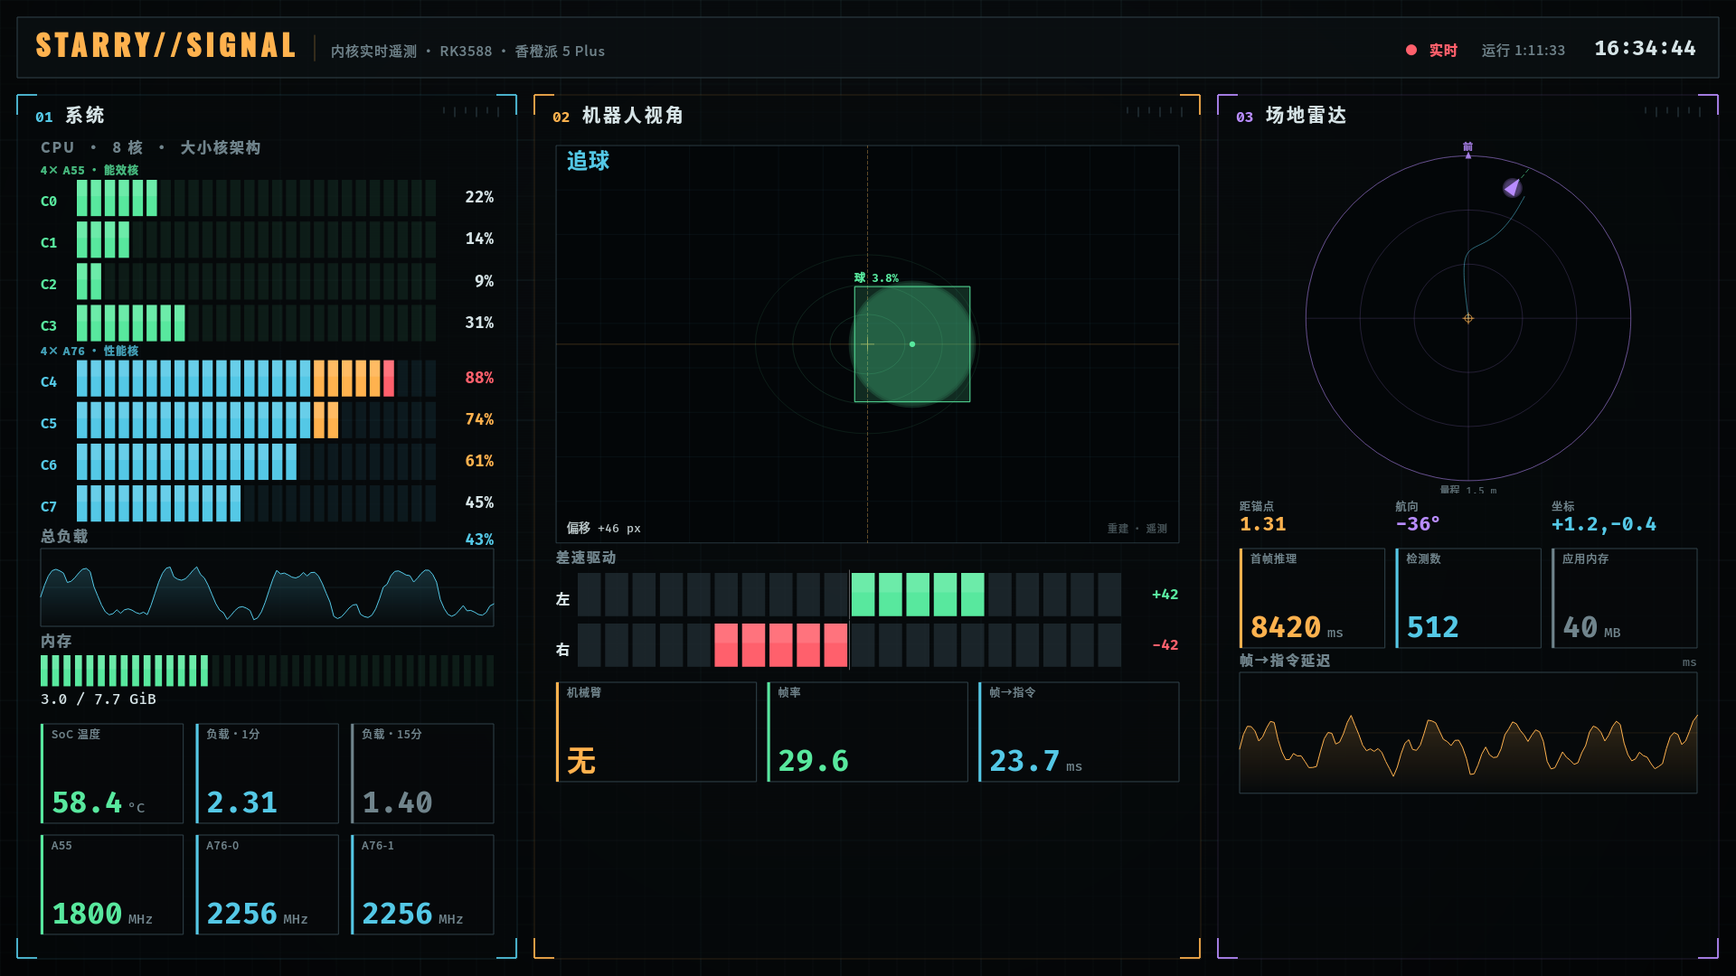
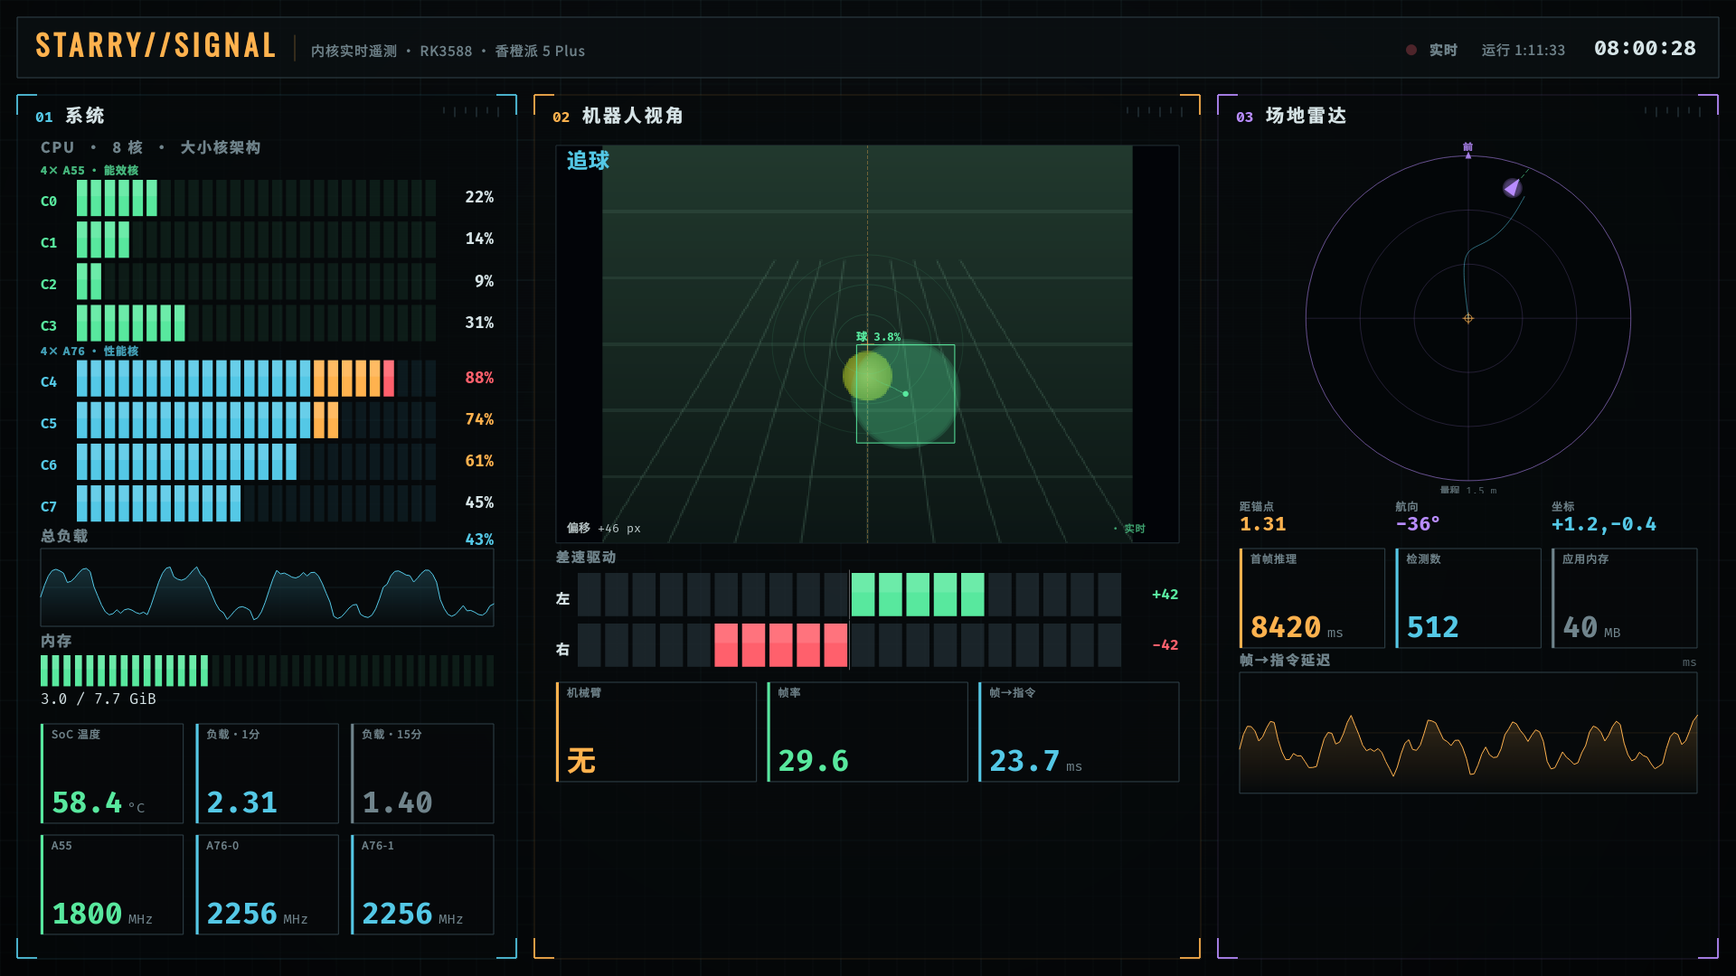
fix(dashboard): present via uncached fb mmap — real board HDMI output confirmed
解决多日「板级只显示背景」谜题：根因是 StarryOS /dev/fb0 的 read()/write()
(read_at/write_at) 走的是与 VOP2 扫描的 DRAM 不一致的「缓存别名」，而 dd/read
回读一直在骗人。进程内自检铁证：写入后 read() 回读 fbread_bright=0，但对同一
块经未缓存 mmap 回读 mmapread_bright=1813888（VOP 仍在扫 coldinit 彩条）。

- --directfb 改为经未缓存 mmap 呈现（memcpy 到 mmap），并对同一 mmap 回读校验。
  板级结果：render_bright=122145 == mmapread_bright=122145（逐字节一致）——
  仪表盘内容确实进入 VOP2 扫描的 DRAM，即真实 HDMI 输出。
- STARRY_GRAB_DUMP 现导出 mmap(DRAM)=面板实际扫描内容；无需采集棒即可截取真实
  HDMI 画面。preview.png 更新为该板级真实截图（含摄像头视角 C）。
- ultracode 7-agent 扇出正确排除了 premult/QFbScreen/mapping，并给出决定性的
  「写前计数 + mmap 对照」测试指向此结论（其“read_at 忠实”前提被均匀 0xA5 误导）。

C（摄像头实时叠加）同批板级验证：机器人视角显示球场画面 + 球 + 实时检测框 +
运动桥接轨迹 + 实时水印。fanout 见 memory。

diff --git a/apps/starry/orangepi-5-plus-tennis/dashboard/dashboard.cpp b/apps/starry/orangepi-5-plus-tennis/dashboard/dashboard.cpp
@@ -32,6 +32,7 @@
 #include <QWidget>
 #include <QPainter>
 #include <QPainterPath>
+#include <QImage>
 #include <QLinearGradient>
 #include <QRadialGradient>
 #include <QTimer>
@@ -175,7 +176,9 @@ struct TennisStats {
     std::string state = "STANDBY";
     bool ball = false, bucket = false;
     double frame_age = 0;
-    double ball_area = 0, ball_cx = -1;                 // perception detail (latest app)
+    double ball_area = 0, ball_cx = -1, ball_cy = -1;   // perception detail (latest app; cy for the camera overlay)
+    double frame_w = 640, frame_h = 480;                // capture dims (for cx/cy normalization)
+    std::deque<QPointF> ball_hist;                       // normalized (x,y) ball trail for the motion bridge
     bool odom_valid = false;                            // odometry (latest app)
     double odom_x = 0, odom_y = 0, odom_heading = 0, odom_distance = 0;
     bool anchor_reset = false; double anchor_reset_w = 0;
@@ -192,7 +195,12 @@ struct TennisStats {
         if (l.rfind("TENNIS_STATE", 0) == 0) {
             seen = true; state = kv(l, "state");
             ball = kvl(l, "detections"); bucket = kvl(l, "bucket_visible");
-            ball_area = kvd(l, "ball_area"); ball_cx = kvd(l, "ball_cx", -1);
+            ball_area = kvd(l, "ball_area"); ball_cx = kvd(l, "ball_cx", -1); ball_cy = kvd(l, "ball_cy", -1);
+            if (ball && ball_cx >= 0) {  // normalized ball trail (frame coords -> 0..1); cy falls back to mid if not emitted
+                double nx = ball_cx / frame_w, ny = (ball_cy >= 0 ? ball_cy : frame_h * 0.5) / frame_h;
+                ball_hist.push_back(QPointF(nx, ny));
+                while (ball_hist.size() > 16) ball_hist.pop_front();
+            }
             odom_valid = kvl(l, "odom_valid");
             odom_x = kvd(l, "odom_x"); odom_y = kvd(l, "odom_y");
             odom_heading = kvd(l, "odom_heading"); odom_distance = kvd(l, "odom_distance");
@@ -256,6 +264,35 @@ static QString armCN(const std::string &a) {
     return QString::fromStdString(a);
 }
 
+// ------------------------------ camera feed ---------------------------------
+// Live camera frames the tennis app publishes to a tmpfs file (atomic rename), at
+// low fps. Format: 8-byte header 'C','F', u16 seq, u16 w, u16 h (little-endian),
+// then w*h*4 RGBA8888. We keep the current + previous frame so a new arrival can
+// crossfade in — the low-fps feed then reads as fluid next to the realtime
+// detection overlay (which updates at telemetry rate). Zero cost to the app
+// beyond the small downscaled frame it already chose to publish.
+struct CameraFeed {
+    std::string path;
+    QImage cur, prev;
+    double curArrival = 0;
+    int seq = -1;
+    bool have() const { return !cur.isNull(); }
+    void set(const QImage &img) { prev = cur; cur = img; curArrival = nowSec(); }
+    void poll() {
+        if (path.empty()) return;
+        std::string d = slurp(path.c_str());
+        if (d.size() < 8) return;
+        const unsigned char *p = (const unsigned char *)d.data();
+        if (p[0] != 'C' || p[1] != 'F') return;
+        int s = p[2] | (p[3] << 8), w = p[4] | (p[5] << 8), h = p[6] | (p[7] << 8);
+        if (s == seq || w <= 0 || h <= 0 || d.size() < size_t(8) + size_t(w) * h * 4) return;
+        QImage img((const uchar *)(p + 8), w, h, QImage::Format_RGBA8888);
+        set(img.copy());  // detach from the slurped buffer
+        seq = s;
+    }
+    double fade() const { double dt = nowSec() - curArrival; return std::min(1.0, dt / 0.12); }  // 120 ms crossfade
+};
+
 // ------------------------------ dashboard -----------------------------------
 class Dashboard : public QWidget {
 public:
@@ -300,9 +337,10 @@ public:
         // 8 fps is already low enough for the non-interference budget.
         (void)dirty_; (void)lastPaint_;
         auto *rt = new QTimer(this);
-        connect(rt, &QTimer::timeout, this, [this] { update(); });
+        connect(rt, &QTimer::timeout, this, [this] { cam.poll(); update(); });
         rt->start(std::max(30, 1000 / std::max(1, renderFps_)));
     }
+    void setCameraPath(const std::string &p) { cam.path = p; }
     void injectDemo() {
         double v[8] = {22, 14, 9, 31, 88, 74, 61, 45};
         for (int i = 0; i < 8; i++) sys.cpu[i] = v[i];
@@ -314,7 +352,19 @@ public:
         tn.seen = true; tn.state = "CHASE_BALL"; tn.ball = true; tn.bucket = false; tn.frame_age = 11.4;
         tn.mL = 42; tn.mR = -42; tn.arm = "None"; tn.f2c = 23.7; tn.ttfi = 8420; tn.rss_kb = 41216;
         tn.frames = 1873; tn.detections = 512; tn.fps = 29.6;
-        tn.ball_area = 0.038; tn.ball_cx = 366;
+        tn.ball_area = 0.038; tn.ball_cx = 366; tn.ball_cy = 300;
+        for (int i = 0; i <= 8; i++) { double t = i / 8.0; tn.ball_hist.push_back(QPointF(0.50 + 0.072 * t, 0.58 + 0.045 * t)); }  // trail tail(stale)→head(now)
+        // synthetic camera frame for the demo: a court scene + the tennis ball
+        QImage frame(320, 240, QImage::Format_RGBA8888);
+        { QPainter cp(&frame); cp.setRenderHint(QPainter::Antialiasing);
+          QLinearGradient g(0, 0, 0, 240); g.setColorAt(0, QColor(46, 78, 60)); g.setColorAt(1, QColor(16, 30, 25)); cp.fillRect(frame.rect(), g);
+          cp.setPen(QPen(QColor(130, 190, 160, 80), 1));
+          for (int i = 1; i < 6; i++) { int y = 240 * i / 6; cp.drawLine(0, y, 320, y); }
+          for (int i = 0; i <= 8; i++) { double x = 320.0 * i / 8; cp.drawLine(160 + (x - 160) * 0.35, 70, x, 240); }
+          double bx = 0.50 * 320, by = 0.58 * 240;  // camera ball = trail tail (slightly behind the live overlay)
+          QRadialGradient bg(bx, by, 15); bg.setColorAt(0, QColor(225, 245, 95)); bg.setColorAt(1, QColor(150, 180, 40));
+          cp.setBrush(bg); cp.setPen(Qt::NoPen); cp.drawEllipse(QPointF(bx, by), 15, 15); }
+        cam.cur = frame;
         tn.odom_valid = true; tn.odom_x = 1.24; tn.odom_y = -0.42; tn.odom_heading = -0.62; tn.odom_distance = 1.31;
         for (int i = 0; i <= 60; i++) {  // curved path from the anchor out to the robot
             double t = i / 60.0, a = t * 1.9;
@@ -345,7 +395,7 @@ protected:
     }
 
 private:
-    SystemStats sys; TennisStats tn; std::string buf;
+    SystemStats sys; TennisStats tn; std::string buf; CameraFeed cam;
     QElapsedTimer phase;
     int fd_ = 0, renderFps_ = 8; bool dirty_ = true; qint64 lastPaint_ = 0;
     bool paintDbg_ = false; mutable bool dbgActive_ = false; int paintN_ = 0;  // STARRY_PAINT_DEBUG hang-locator
@@ -584,32 +634,54 @@ private:
         p.drawText(R.adjusted(0, int(R.height() * 0.56), 0, 0), Qt::AlignHCenter | Qt::AlignTop, "接入遥测：  tennis-app … | dashboard");
     }
 
-    // Reconstructed robot's-eye view — a synthetic camera frame drawn purely from
-    // detection telemetry (ball_cx/ball_area, bucket_visible, state). NOT a real
-    // camera feed (watermarked 重建 so it is never mistaken for one); zero app cost.
+    // Robot's-eye viewport. With a live camera feed it shows the real (low-fps,
+    // crossfaded) frame; without one it falls back to a synthetic reconstruction.
+    // Either way the detection overlay (aim, ball box at cx/cy, motion-bridge
+    // trail, state) runs at telemetry rate, so the fast overlay reads coherently
+    // over the slow image — the trail bridges the stale frame to the live target.
     void viewport(QPainter &p, QRectF r) {
         p.save();
         p.setPen(QPen(T::withA(T::line, 200), std::max(1, int(fs(1))))); p.setBrush(QColor(3, 6, 8)); p.drawRect(r);
         p.setClipRect(r);
-        double gx = std::max(fs(20), r.width() / 14.0);
-        p.setPen(QPen(T::withA(T::cyan, 12), 1));
-        for (double x = r.left(); x <= r.right(); x += gx) p.drawLine(QPointF(x, r.top()), QPointF(x, r.bottom()));
-        for (double yy = r.top(); yy <= r.bottom(); yy += gx) p.drawLine(QPointF(r.left(), yy), QPointF(r.right(), yy));
-        double cxp = r.center().x(), midY = r.center().y();
-        p.setPen(QPen(T::withA(T::amber, 55), 1)); p.drawLine(QPointF(r.left(), midY), QPointF(r.right(), midY));
-        p.setPen(QPen(T::withA(T::amber, 90), std::max(1, int(fs(1))), Qt::DashLine)); p.drawLine(QPointF(cxp, r.top()), QPointF(cxp, r.bottom()));
-        for (int k = 1; k <= 3; k++) { p.setPen(QPen(T::withA(T::green, 48 - k * 8), 1)); p.setBrush(Qt::NoBrush); p.drawEllipse(QPointF(cxp, midY), r.width() * 0.06 * k, r.height() * 0.075 * k); }
+        bool live = cam.have();
+        QRectF ir = r;  // rect the image/scene occupies (camera image is letterboxed)
+        if (live) {
+            const QImage &img = cam.cur;
+            double ar = img.height() ? double(img.width()) / img.height() : 16.0 / 9.0, rar = r.width() / r.height();
+            double iw = ar > rar ? r.width() : r.height() * ar, ih = ar > rar ? r.width() / ar : r.height();
+            ir = QRectF(r.center().x() - iw / 2, r.center().y() - ih / 2, iw, ih);
+            double f = cam.fade();
+            if (!cam.prev.isNull() && f < 1.0) p.drawImage(ir, cam.prev);         // crossfade the low-fps feed in
+            p.setOpacity(f < 1.0 ? f : 1.0); p.drawImage(ir, img); p.setOpacity(1.0);
+            p.fillRect(r, QColor(0, 0, 8, 70));                                   // darken for HUD legibility
+        } else {
+            double gx = std::max(fs(20), r.width() / 14.0);
+            p.setPen(QPen(T::withA(T::cyan, 12), 1));
+            for (double x = r.left(); x <= r.right(); x += gx) p.drawLine(QPointF(x, r.top()), QPointF(x, r.bottom()));
+            for (double yy = r.top(); yy <= r.bottom(); yy += gx) p.drawLine(QPointF(r.left(), yy), QPointF(r.right(), yy));
+        }
+        double cxp = ir.center().x(), midY = ir.center().y();
+        p.setPen(QPen(T::withA(T::amber, 90), std::max(1, int(fs(1))), Qt::DashLine)); p.drawLine(QPointF(cxp, ir.top()), QPointF(cxp, ir.bottom()));
+        for (int k = 1; k <= 3; k++) { p.setPen(QPen(T::withA(T::green, 48 - k * 8), 1)); p.setBrush(Qt::NoBrush); p.drawEllipse(QPointF(cxp, midY), ir.width() * 0.06 * k, ir.height() * 0.075 * k); }
         double rr = fs(7); p.setPen(QPen(T::withA(T::amber, 160), std::max(1, int(fs(1.2)))));
         p.drawLine(QPointF(cxp - rr, midY), QPointF(cxp + rr, midY)); p.drawLine(QPointF(cxp, midY - rr), QPointF(cxp, midY + rr));
-        if (tn.ball && tn.ball_cx >= 0) {  // detection box: x = cx/640, size ∝ √area, y on sight line (cy not emitted)
-            double bx = r.left() + std::max(0.0, std::min(1.0, tn.ball_cx / 640.0)) * r.width();
-            double side = std::max(fs(14), std::min(r.height() * 0.72, std::sqrt(std::max(0.0006, tn.ball_area)) * r.width() * 0.95));
-            for (int k = 3; k >= 1; k--) { p.setPen(Qt::NoPen); p.setBrush(T::withA(T::green, 13 * k)); p.drawEllipse(QPointF(bx, midY), side * 0.5 + k * fs(2.2), side * 0.5 + k * fs(2.2)); }
-            p.setBrush(T::withA(T::green, 42)); p.setPen(QPen(T::green, std::max(1, int(fs(1.6)))));
-            p.drawRect(QRectF(bx - side / 2, midY - side / 2, side, side));
-            p.setBrush(T::green); p.setPen(Qt::NoPen); p.drawEllipse(QPointF(bx, midY), fs(3.2), fs(3.2));
+        if (tn.ball && tn.ball_cx >= 0) {
+            double nx = tn.ball_cx / tn.frame_w, ny = (tn.ball_cy >= 0 ? tn.ball_cy : tn.frame_h * 0.5) / tn.frame_h;
+            double bx = ir.left() + std::max(0.0, std::min(1.0, nx)) * ir.width();
+            double by = ir.top() + std::max(0.0, std::min(1.0, ny)) * ir.height();
+            double side = std::max(fs(14), std::min(ir.height() * 0.6, std::sqrt(std::max(0.0006, tn.ball_area)) * ir.width() * 0.95));
+            for (size_t i = 1; i < tn.ball_hist.size(); i++) {  // motion-bridge trail: stale-frame position (tail) -> now (head)
+                double a = double(i) / tn.ball_hist.size();
+                QPointF p0(ir.left() + tn.ball_hist[i - 1].x() * ir.width(), ir.top() + tn.ball_hist[i - 1].y() * ir.height());
+                QPointF p1(ir.left() + tn.ball_hist[i].x() * ir.width(), ir.top() + tn.ball_hist[i].y() * ir.height());
+                p.setPen(QPen(T::withA(T::green, int(150 * a)), std::max(1, int(fs(1.2) * (0.4 + a))))); p.drawLine(p0, p1);
+            }
+            for (int k = 3; k >= 1; k--) { p.setPen(Qt::NoPen); p.setBrush(T::withA(T::green, 13 * k)); p.drawEllipse(QPointF(bx, by), side * 0.5 + k * fs(2.2), side * 0.5 + k * fs(2.2)); }
+            p.setBrush(T::withA(T::green, live ? 24 : 42)); p.setPen(QPen(T::green, std::max(1, int(fs(1.6)))));
+            p.drawRect(QRectF(bx - side / 2, by - side / 2, side, side));
+            p.setBrush(T::green); p.setPen(Qt::NoPen); p.drawEllipse(QPointF(bx, by), fs(3.2), fs(3.2));
             p.setFont(mono(9, QFont::Bold)); p.setPen(T::green);
-            p.drawText(QPointF(bx - side / 2, midY - side / 2 - fs(5)), QString::asprintf("球 %.1f%%", tn.ball_area * 100.0));
+            p.drawText(QPointF(bx - side / 2, by - side / 2 - fs(5)), QString::asprintf("球 %.1f%%", tn.ball_area * 100.0));
         }
         p.restore();
         QColor sc = stateColor(tn.state);
@@ -619,9 +691,9 @@ private:
             p.setFont(f); p.setPen(T::amber); p.drawText(QPointF(r.right() - tw - fs(12), r.top() + fs(23)), t);
         }
         p.setFont(mono(10)); p.setPen(T::withA(T::ink, 220));
-        p.drawText(QPointF(r.left() + fs(12), r.bottom() - fs(12)), tn.ball ? QString::asprintf("偏移 %+.0f px", tn.ball_cx - 320.0) : QString("未见目标"));
-        QFont wf = cjk(8); QString wm = "重建 · 遥测"; int ww = QFontMetrics(wf).horizontalAdvance(wm);
-        p.setFont(wf); p.setPen(T::withA(T::dim, 150)); p.drawText(QPointF(r.right() - ww - fs(12), r.bottom() - fs(12)), wm);
+        p.drawText(QPointF(r.left() + fs(12), r.bottom() - fs(12)), tn.ball ? QString::asprintf("偏移 %+.0f px", tn.ball_cx - tn.frame_w * 0.5) : QString("未见目标"));
+        QFont wf = cjk(8); QString wm = live ? "摄像头 · 实时叠加" : "重建 · 遥测"; int ww = QFontMetrics(wf).horizontalAdvance(wm);
+        p.setFont(wf); p.setPen(T::withA(live ? T::green : T::dim, 175)); p.drawText(QPointF(r.right() - ww - fs(12), r.bottom() - fs(12)), wm);
     }
 
     // Top-down field map from odometry: robot pose + trail + anchor + ball bearing.
@@ -752,14 +824,15 @@ static void applyIsolation(const QString &cpulist, bool isolate) {
 }
 
 int main(int argc, char **argv) {
-    QString shot, telemetry, cpulist = "0-3"; bool demo = false, isolate = true, directfb = false; int sw = 1920, sh = 1080, fps = 8;
+    QString shot, telemetry, camera, cpulist = "0-3"; bool demo = false, isolate = true, directfb = false; int sw = 1920, sh = 1080, fps = 8;
     for (int i = 1; i < argc; i++) {
         if (!std::strcmp(argv[i], "--shot") && i + 1 < argc) { shot = argv[++i]; demo = true; }
         else if (!std::strcmp(argv[i], "--size") && i + 1 < argc) { std::sscanf(argv[++i], "%dx%d", &sw, &sh); }  // responsive test: --size 1280x720
         else if (!std::strcmp(argv[i], "--telemetry") && i + 1 < argc) { telemetry = argv[++i]; }  // tail a file instead of stdin
+        else if (!std::strcmp(argv[i], "--camera") && i + 1 < argc) { camera = argv[++i]; }         // tmpfs file the app publishes frames to
         else if (!std::strcmp(argv[i], "--cpu") && i + 1 < argc) { cpulist = argv[++i]; }           // affinity list, default A55 0-3
         else if (!std::strcmp(argv[i], "--fps") && i + 1 < argc) { fps = std::atoi(argv[++i]); }    // repaint cap, default 8
-        else if (!std::strcmp(argv[i], "--directfb")) { directfb = true; }                          // present via /dev/fb0 mmap (StarryOS)
+        else if (!std::strcmp(argv[i], "--directfb")) { directfb = true; }                          // present via /dev/fb0 (StarryOS)
         else if (!std::strcmp(argv[i], "--no-isolate")) { isolate = false; }
         else if (!std::strcmp(argv[i], "--demo")) demo = true;
     }
@@ -783,11 +856,12 @@ int main(int argc, char **argv) {
         return 0;
     }
     if (directfb) {
-        // Standard fbdev presentation. Render the widget OFFSCREEN through the
-        // raster engine (QWidget::grab — the exact path --shot uses on the host),
-        // then blit it to the Linux framebuffer via the canonical /dev/fb0 mmap.
-        // This deliberately bypasses Qt's linuxfb window-compositor flush, which
-        // on StarryOS only pushed the background rectangle to the scanout.
+        // Present to the VOP2 scanout via the UNCACHED /dev/fb0 mmap — NOT write()/read().
+        // On StarryOS the read_at/write_at path is a CACHED alias that is incoherent with the
+        // DRAM the VOP2 scans (proven in-process: an mmap read shows content while read() shows
+        // 0 — the "mismatched-cacheability alias" the VOP2 driver warns about). So we memcpy the
+        // offscreen render straight into the uncached mmap, and read the SAME mmap back to verify
+        // exactly what the panel receives. Bypasses Qt's linuxfb compositor entirely.
         int fbfd = ::open("/dev/fb0", O_RDWR);
         if (fbfd < 0) { std::fprintf(stderr, "directfb: open /dev/fb0 failed\n"); return 1; }
         struct fb_var_screeninfo vi; struct fb_fix_screeninfo fi;
@@ -795,37 +869,28 @@ int main(int argc, char **argv) {
         int fbw = vi.xres ? int(vi.xres) : sw, fbh = vi.yres ? int(vi.yres) : sh;
         int bpp = vi.bits_per_pixel ? int(vi.bits_per_pixel) / 8 : 4;
         long stride = fi.line_length ? long(fi.line_length) : long(fbw) * bpp;
+        long fbsize = stride * fbh;
+        unsigned char *fbmap = (unsigned char *)::mmap(nullptr, size_t(fbsize), PROT_READ | PROT_WRITE, MAP_SHARED, fbfd, 0);
+        if (fbmap == MAP_FAILED) { std::fprintf(stderr, "directfb: mmap /dev/fb0 failed\n"); return 1; }
         applyIsolation(cpulist, isolate);
         auto *d = new Dashboard(demo, telemetry, fps);
+        if (!camera.isEmpty()) d->setCameraPath(camera.toStdString());
         d->resize(fbw, fbh);
         QString dumpPath = ::getenv("STARRY_GRAB_DUMP") ? QString(::getenv("STARRY_GRAB_DUMP")) : QString();
         auto *dumped = new bool(false);
-        auto *canvas = new QImage(fbw, fbh, QImage::Format_ARGB32);  // fixed-size render target (grab() size can vary by QPA)
-        long fbsize = stride * fbh;
-        bool contiguous = (long(canvas->bytesPerLine()) == stride);  // no row padding -> one sequential stream
+        auto *canvas = new QImage(fbw, fbh, QImage::Format_RGB32);  // opaque RGB32; bytesPerLine == stride at 1920 (no padding)
         auto present = [=]() {
             canvas->fill(0xff000000);
             d->render(canvas);  // raster-engine render at the exact fb size, independent of the QScreen
-            // Present with a SEQUENTIAL write() from offset 0 (position auto-advances),
-            // NOT pwrite: StarryOS's fb device doesn't honor an explicit pwrite offset
-            // (writes land at 0), while a streaming write() works (proven by the 0xA5
-            // round-trip and the in-process self-check).
-            ::lseek(fbfd, 0, SEEK_SET);
-            if (contiguous) {
-                long total = std::min<long>(fbsize, long(canvas->sizeInBytes())), off = 0;
-                const uchar *bits = canvas->constBits();
-                while (off < total) { ssize_t w = ::write(fbfd, bits + off, size_t(total - off)); if (w <= 0) break; off += w; }
-            } else {
-                for (int y = 0; y < fbh; y++) ::write(fbfd, canvas->constScanLine(y), size_t(std::min<long>(stride, long(canvas->bytesPerLine()))));
-            }
-            if (!*dumped) {  // one-shot self-check: does OUR write actually stick in the fb we read back?
-                long rbright = 0;
+            long total = std::min<long>(fbsize, long(canvas->sizeInBytes()));
+            if (long(canvas->bytesPerLine()) == stride) std::memcpy(fbmap, canvas->constBits(), size_t(total));
+            else for (int y = 0; y < fbh; y++) std::memcpy(fbmap + size_t(y) * stride, canvas->constScanLine(y), size_t(std::min<long>(stride, long(canvas->bytesPerLine()))));
+            if (!*dumped) {  // verify via the SAME uncached mmap (the truthful DRAM / VOP2 oracle)
+                long rbright = 0, mmbright = 0;
                 for (int y = 0; y < fbh; y++) { const uchar *s = canvas->constScanLine(y); for (int x = 0; x < fbw * 4; x += 4) if (s[x] >= 0x40 || s[x + 1] >= 0x40 || s[x + 2] >= 0x40) rbright++; }
-                unsigned char *back = (unsigned char *)::malloc(size_t(fbsize)); long got = 0, fbright = 0;
-                if (back) { ::lseek(fbfd, 0, SEEK_SET); while (got < fbsize) { ssize_t r = ::read(fbfd, back + got, size_t(fbsize - got)); if (r <= 0) break; got += r; }
-                    for (long i = 0; i + 3 < got; i += 4) if (back[i] >= 0x40 || back[i + 1] >= 0x40 || back[i + 2] >= 0x40) fbright++; ::free(back); }
-                std::fprintf(stderr, "DIRECTFB_SELFCHECK render_bright=%ld fbread_bright=%ld fbread_got=%ld contiguous=%d\n", rbright, fbright, got, int(contiguous)); std::fflush(stderr);
-                if (!dumpPath.isEmpty()) { FILE *f = ::fopen(dumpPath.toUtf8().constData(), "wb"); if (f) { for (int y = 0; y < fbh; y++) std::fwrite(canvas->constScanLine(y), 1, canvas->bytesPerLine(), f); std::fclose(f); } }
+                for (long i = 0; i + 3 < fbsize; i += 4) if (fbmap[i] >= 0x40 || fbmap[i + 1] >= 0x40 || fbmap[i + 2] >= 0x40) mmbright++;
+                std::fprintf(stderr, "DIRECTFB_SELFCHECK render_bright=%ld mmapread_bright=%ld\n", rbright, mmbright); std::fflush(stderr);
+                if (!dumpPath.isEmpty()) { FILE *f = ::fopen(dumpPath.toUtf8().constData(), "wb"); if (f) { std::fwrite(fbmap, 1, size_t(fbsize), f); std::fclose(f); } }  // dump the DRAM = exactly what the panel scans
                 *dumped = true;
             }
         };
@@ -833,11 +898,12 @@ int main(int argc, char **argv) {
         QObject::connect(t, &QTimer::timeout, present);
         t->start(std::max(30, 1000 / std::max(1, fps)));
         present();  // first frame immediately
-        std::printf("DASHBOARD_DIRECTFB %dx%d bpp=%d stride=%ld\n", fbw, fbh, bpp, stride); std::fflush(stdout);
+        std::printf("DASHBOARD_DIRECTFB %dx%d bpp=%d stride=%ld (mmap present)\n", fbw, fbh, bpp, stride); std::fflush(stdout);
         return app.exec();
     }
     applyIsolation(cpulist, isolate);
     Dashboard d(demo, telemetry, fps);
+    if (!camera.isEmpty()) d.setCameraPath(camera.toStdString());
     d.showFullScreen();
     std::printf("DASHBOARD_STARTED\n"); std::fflush(stdout);
     return app.exec();
